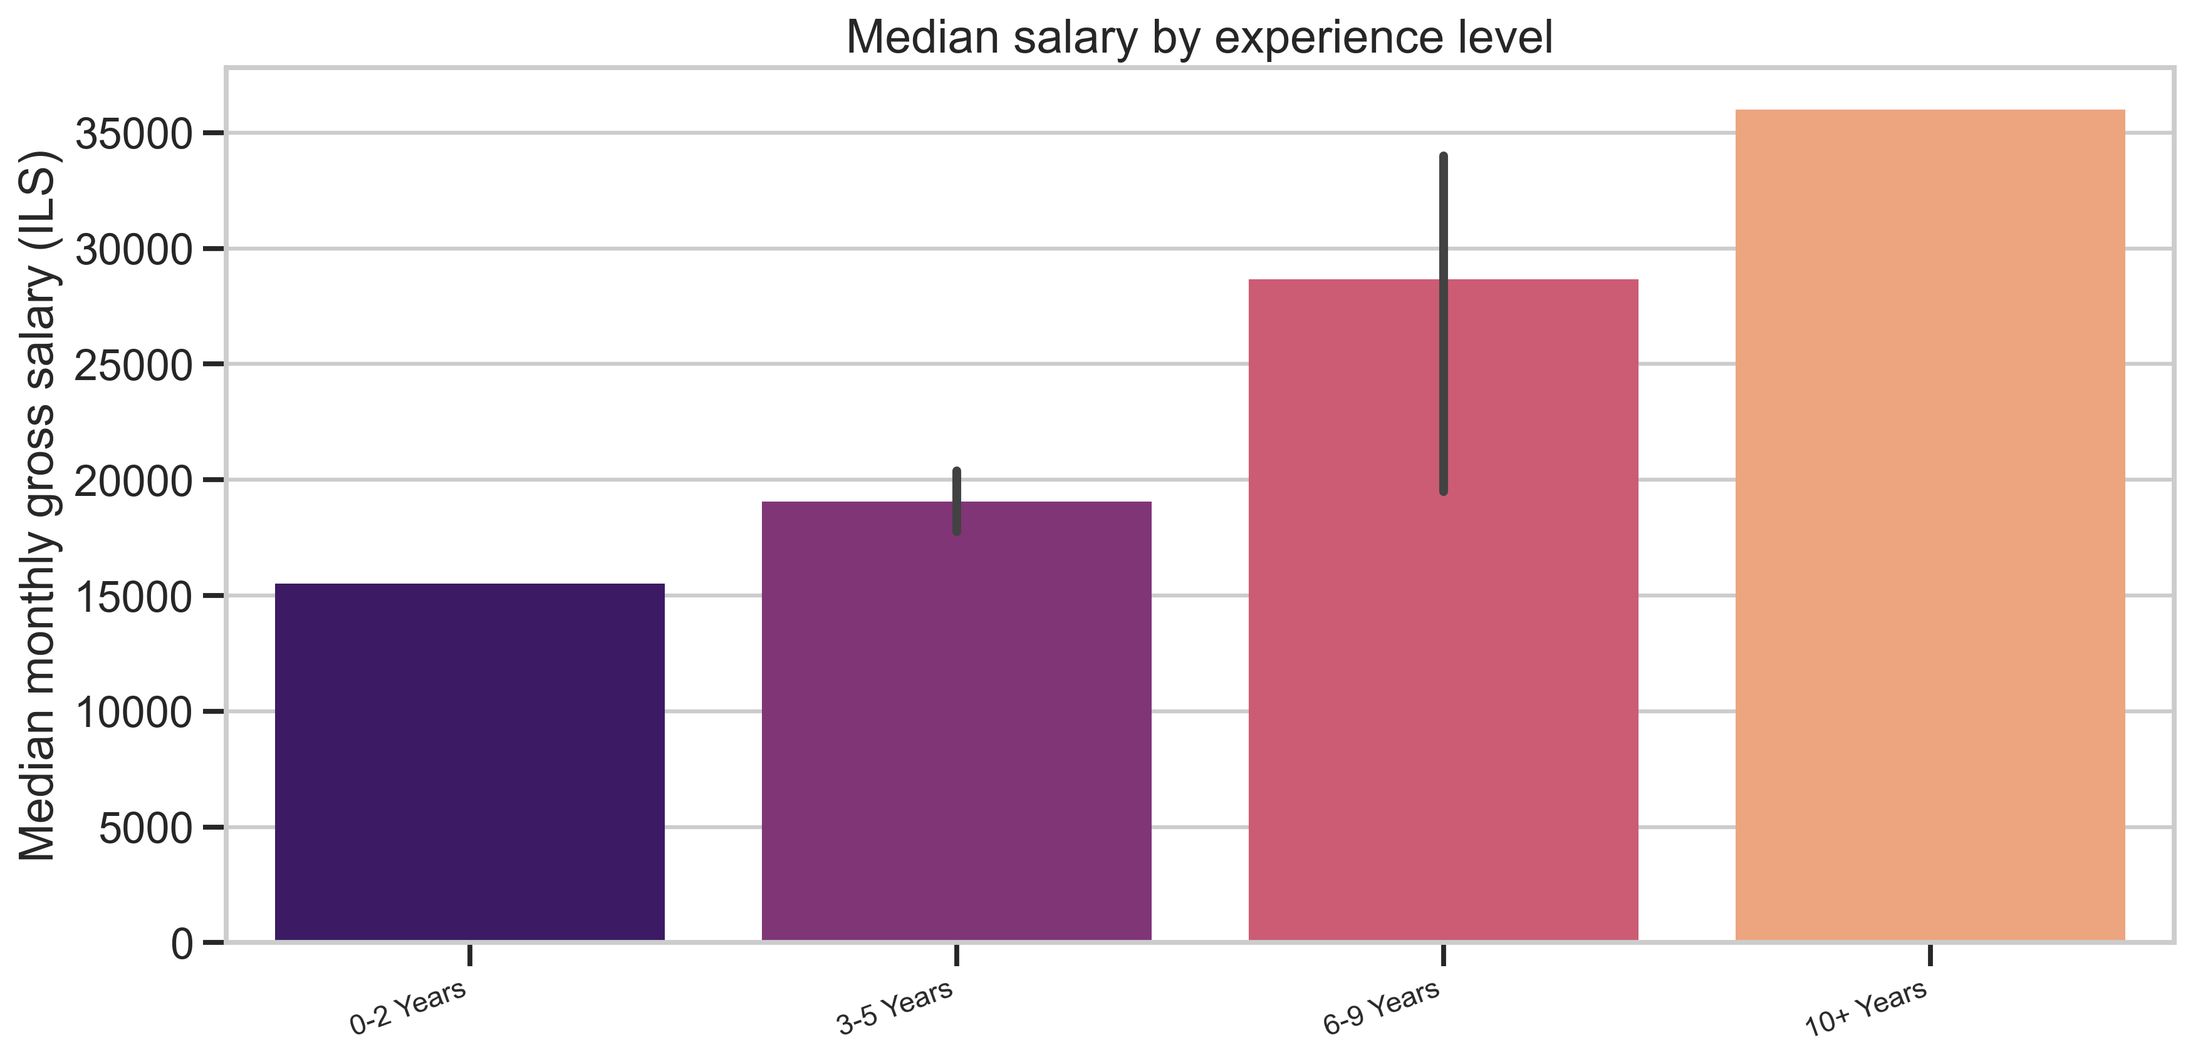
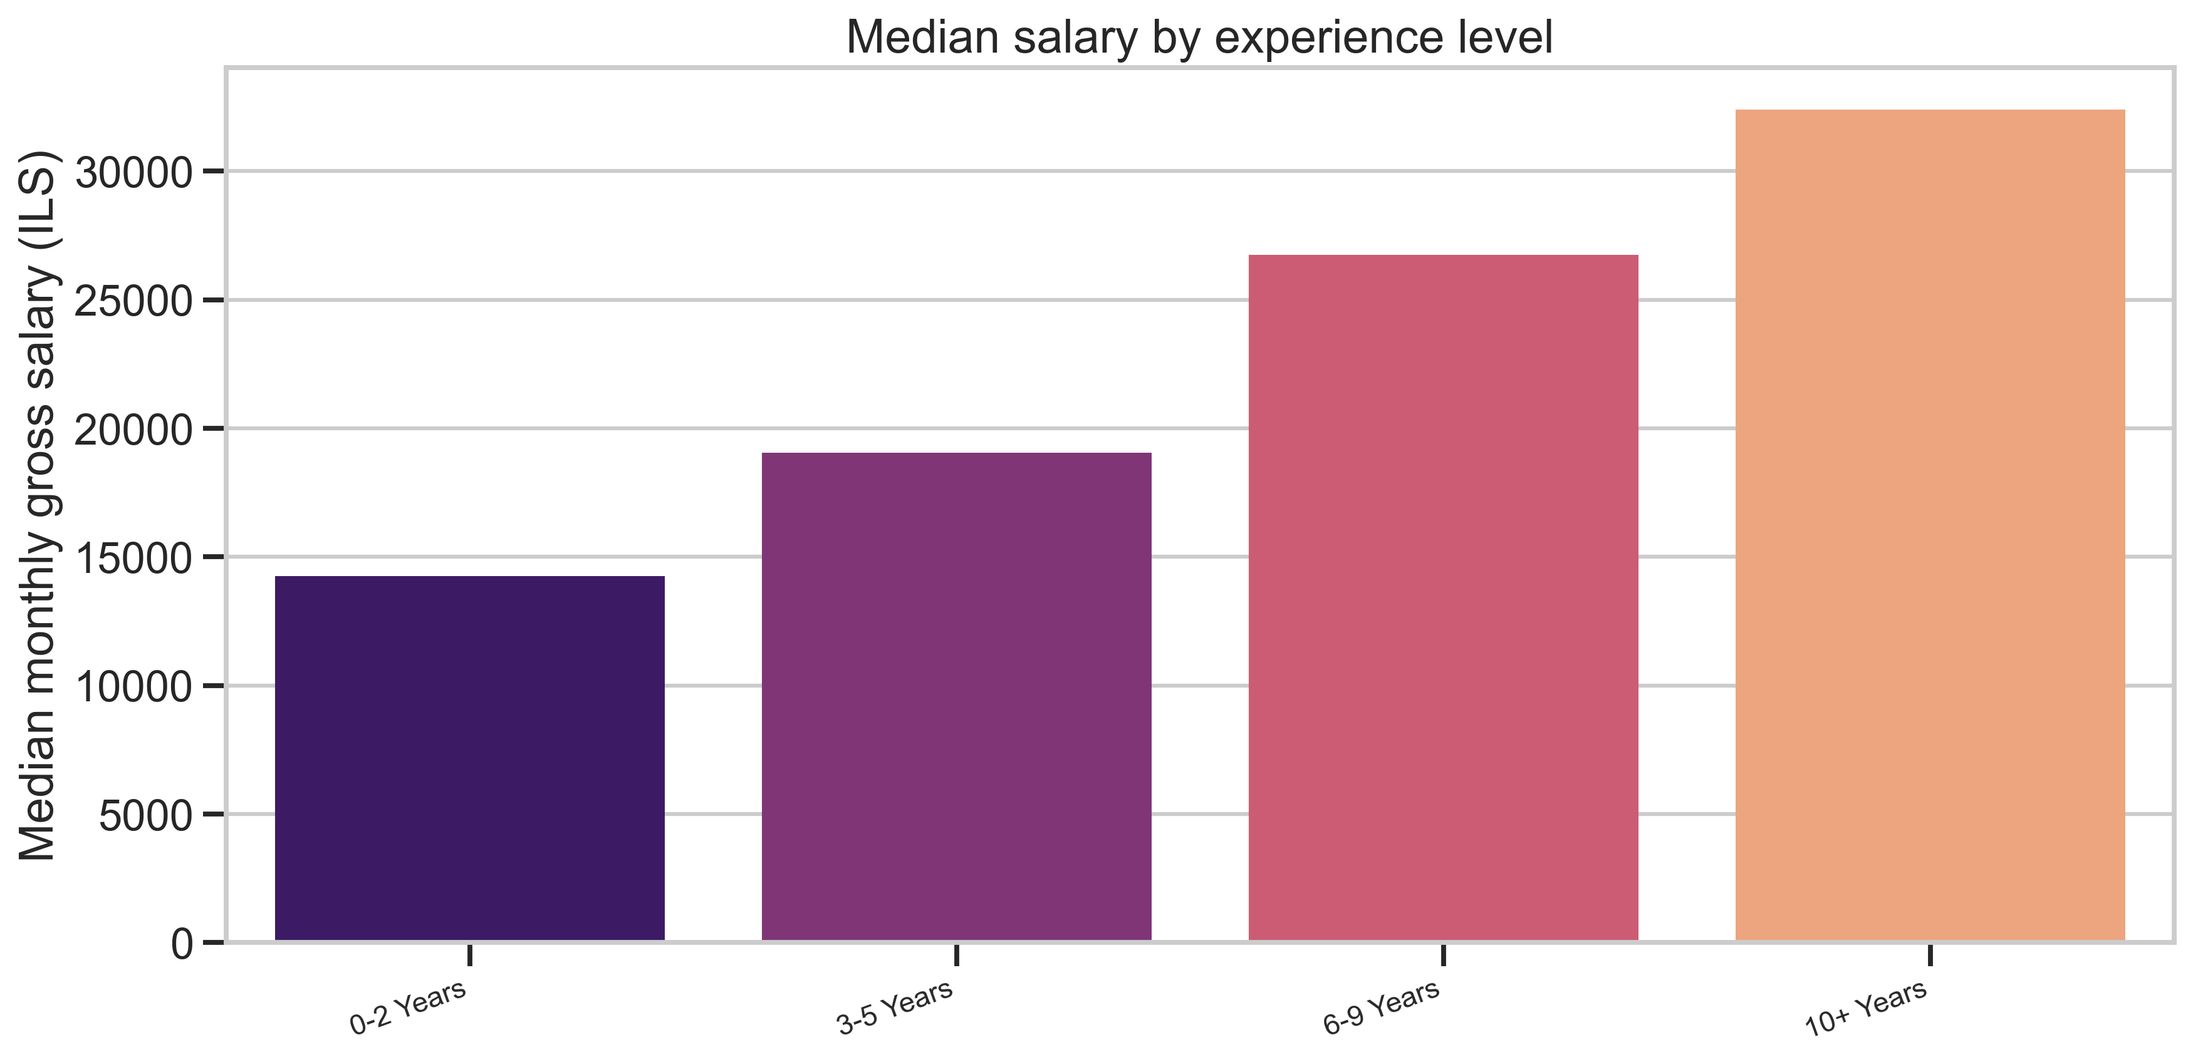
Add files via upload

diff --git a/Images/salarysurvey2026 images/salary_survey_2026_tables.md b/Images/salarysurvey2026 images/salary_survey_2026_tables.md
@@ -1,0 +1,242 @@
+# Data Operations IL Salary Survey 2026
+
+Summary tables generated from the cleaned global-salary cohort.
+
+## Salary Statistics
+
+|      |    Value |
+|:-----|---------:|
+| mean | 25313.6  |
+| std  |  9244.47 |
+| min  | 10500    |
+| 25%  | 19000    |
+| 50%  | 23000    |
+| 75%  | 30000    |
+| max  | 45000    |
+
+
+## Experience and Workplace
+
+| Experience   | Type of Workplace                     | Salary Range    | Median Value   | Comment        |
+|:-------------|:--------------------------------------|:----------------|:---------------|:---------------|
+| 0-2 Years    | Big Startup (More than 200 Employees) | 13,000 - 13,000 | 13,000         | <3 respondents |
+| 0-2 Years    | Enterprise/Corporate                  | 13,000 - 18,000 | 15,500         | <3 respondents |
+| 3-5 Years    | Big Startup (More than 200 Employees) | 12,100 - 28,000 | 18,000         |                |
+| 3-5 Years    | Enterprise/Corporate                  | 10,500 - 24,500 | 17,500         | <3 respondents |
+| 3-5 Years    | Medium Startup (41-200 Employees)     | 19,000 - 33,000 | 21,000         |                |
+| 3-5 Years    | Small Startup (up to 40 Employees)    | 16,500 - 23,000 | 19,750         | <3 respondents |
+| 6-9 Years    | Big Startup (More than 200 Employees) | 21,000 - 21,000 | 21,000         | <3 respondents |
+| 6-9 Years    | Enterprise/Corporate                  | 27,000 - 35,500 | 32,500         |                |
+| 6-9 Years    | Medium Startup (41-200 Employees)     | 17,000 - 22,000 | 19,500         | <3 respondents |
+| 6-9 Years    | Small Startup (up to 40 Employees)    | 28,000 - 40,000 | 34,000         | <3 respondents |
+| 10+ Years    | Big Startup (More than 200 Employees) | 40,000 - 40,000 | 40,000         | <3 respondents |
+| 10+ Years    | Enterprise/Corporate                  | 20,000 - 45,000 | 36,000         |                |
+| 10+ Years    | Government                            | 30,000 - 30,000 | 30,000         | <3 respondents |
+| 10+ Years    | Medium Startup (41-200 Employees)     | 34,000 - 34,000 | 34,000         | <3 respondents |
+| 10+ Years    | Small Startup (up to 40 Employees)    | 22,000 - 22,000 | 22,000         | <3 respondents |
+
+
+## Workplace
+
+| Type of Workplace                     | Salary Range    | Median Value   | Comment   |
+|:--------------------------------------|:----------------|:---------------|:----------|
+| Government                            | 30,000 - 30,000 | 30,000         |           |
+| Enterprise/Corporate                  | 10,500 - 45,000 | 27,000         |           |
+| Small Startup (up to 40 Employees)    | 16,500 - 40,000 | 23,000         |           |
+| Medium Startup (41-200 Employees)     | 17,000 - 34,000 | 21,000         |           |
+| Big Startup (More than 200 Employees) | 12,100 - 40,000 | 19,500         |           |
+
+
+## Special Knowledge by Experience
+
+| Experience   | Salary Range    | Median Value   | Comment        |
+|:-------------|:----------------|:---------------|:---------------|
+| 10+ Years    | 30,000 - 45,000 | 34,000         |                |
+| 3-5 Years    | 21,000 - 21,000 | 21,000         | <3 respondents |
+| 6-9 Years    | 21,000 - 21,000 | 21,000         | <3 respondents |
+
+
+## Special Knowledge by Workplace
+
+| Type of Workplace                     | Salary Range    | Median Value   | Comment        |
+|:--------------------------------------|:----------------|:---------------|:---------------|
+| Big Startup (More than 200 Employees) | 21,000 - 21,000 | 21,000         | <3 respondents |
+| Enterprise/Corporate                  | 45,000 - 45,000 | 45,000         | <3 respondents |
+| Government                            | 30,000 - 30,000 | 30,000         | <3 respondents |
+| Medium Startup (41-200 Employees)     | 21,000 - 34,000 | 21,000         |                |
+
+
+## Technical Work by Experience and Workplace
+
+| Experience   | Type of Workplace                     | Salary Range    | Median Value   | Comment        |
+|:-------------|:--------------------------------------|:----------------|:---------------|:---------------|
+| 0-2 Years    | Enterprise/Corporate                  | 13,000 - 13,000 | 13,000         | <3 respondents |
+| 10+ Years    | Big Startup (More than 200 Employees) | 40,000 - 40,000 | 40,000         | <3 respondents |
+| 10+ Years    | Enterprise/Corporate                  | 45,000 - 45,000 | 45,000         | <3 respondents |
+| 10+ Years    | Government                            | 30,000 - 30,000 | 30,000         | <3 respondents |
+| 10+ Years    | Medium Startup (41-200 Employees)     | 34,000 - 34,000 | 34,000         | <3 respondents |
+| 10+ Years    | Small Startup (up to 40 Employees)    | 22,000 - 22,000 | 22,000         | <3 respondents |
+| 3-5 Years    | Big Startup (More than 200 Employees) | 12,100 - 28,000 | 18,000         |                |
+| 3-5 Years    | Enterprise/Corporate                  | 10,500 - 10,500 | 10,500         | <3 respondents |
+| 3-5 Years    | Medium Startup (41-200 Employees)     | 21,000 - 21,000 | 21,000         | <3 respondents |
+| 3-5 Years    | Small Startup (up to 40 Employees)    | 16,500 - 23,000 | 19,750         | <3 respondents |
+| 6-9 Years    | Big Startup (More than 200 Employees) | 21,000 - 21,000 | 21,000         | <3 respondents |
+| 6-9 Years    | Enterprise/Corporate                  | 27,000 - 35,000 | 30,000         |                |
+| 6-9 Years    | Medium Startup (41-200 Employees)     | 17,000 - 22,000 | 19,500         | <3 respondents |
+| 6-9 Years    | Small Startup (up to 40 Employees)    | 28,000 - 40,000 | 34,000         | <3 respondents |
+
+
+## Manager by Experience and Workplace
+
+| Experience   | Type of Workplace                     | Salary Range    | Median Value   | Comment        |
+|:-------------|:--------------------------------------|:----------------|:---------------|:---------------|
+| 10+ Years    | Enterprise/Corporate                  | 45,000 - 45,000 | 45,000         | <3 respondents |
+| 10+ Years    | Government                            | 30,000 - 30,000 | 30,000         | <3 respondents |
+| 10+ Years    | Medium Startup (41-200 Employees)     | 34,000 - 34,000 | 34,000         | <3 respondents |
+| 10+ Years    | Small Startup (up to 40 Employees)    | 22,000 - 22,000 | 22,000         | <3 respondents |
+| 3-5 Years    | Big Startup (More than 200 Employees) | 18,000 - 28,000 | 23,000         | <3 respondents |
+| 3-5 Years    | Enterprise/Corporate                  | 24,500 - 24,500 | 24,500         | <3 respondents |
+| 3-5 Years    | Medium Startup (41-200 Employees)     | 19,000 - 33,000 | 21,000         |                |
+| 6-9 Years    | Big Startup (More than 200 Employees) | 21,000 - 21,000 | 21,000         | <3 respondents |
+| 6-9 Years    | Enterprise/Corporate                  | 35,000 - 35,500 | 35,250         | <3 respondents |
+| 6-9 Years    | Medium Startup (41-200 Employees)     | 22,000 - 22,000 | 22,000         | <3 respondents |
+| 6-9 Years    | Small Startup (up to 40 Employees)    | 40,000 - 40,000 | 40,000         | <3 respondents |
+
+
+## Manager by Team Size and Workplace
+
+| Team Size               | Type of Workplace                     | Salary Range    | Median Value   | Comment        |
+|:------------------------|:--------------------------------------|:----------------|:---------------|:---------------|
+| Between 6 and 12 people | Big Startup (More than 200 Employees) | 21,000 - 21,000 | 21,000         | <3 respondents |
+| Between 6 and 12 people | Enterprise/Corporate                  | 24,500 - 45,000 | 34,750         | <3 respondents |
+| Between 6 and 12 people | Medium Startup (41-200 Employees)     | 21,000 - 33,000 | 21,000         |                |
+| Over 12 people          | Government                            | 30,000 - 30,000 | 30,000         | <3 respondents |
+| Up to 5 people          | Big Startup (More than 200 Employees) | 18,000 - 28,000 | 23,000         | <3 respondents |
+| Up to 5 people          | Enterprise/Corporate                  | 35,000 - 35,500 | 35,250         | <3 respondents |
+| Up to 5 people          | Medium Startup (41-200 Employees)     | 19,000 - 34,000 | 22,000         |                |
+| Up to 5 people          | Small Startup (up to 40 Employees)    | 22,000 - 40,000 | 31,000         | <3 respondents |
+
+
+## Manager by Experience and Team Size
+
+| Experience   | Team Size               | Salary Range    | Median Value   | Comment        |
+|:-------------|:------------------------|:----------------|:---------------|:---------------|
+| 10+ Years    | Between 6 and 12 people | 45,000 - 45,000 | 45,000         | <3 respondents |
+| 10+ Years    | Over 12 people          | 30,000 - 30,000 | 30,000         | <3 respondents |
+| 10+ Years    | Up to 5 people          | 22,000 - 34,000 | 28,000         | <3 respondents |
+| 3-5 Years    | Between 6 and 12 people | 21,000 - 33,000 | 22,750         |                |
+| 3-5 Years    | Up to 5 people          | 18,000 - 28,000 | 20,000         |                |
+| 6-9 Years    | Between 6 and 12 people | 21,000 - 21,000 | 21,000         | <3 respondents |
+| 6-9 Years    | Up to 5 people          | 22,000 - 40,000 | 35,250         |                |
+
+
+## Hands-on Data Work by Experience
+
+| How much of your day-to-day work includes being hands-on with data?   | Experience   | Salary Range    | Median Value   | Comment        |
+|:----------------------------------------------------------------------|:-------------|:----------------|:---------------|:---------------|
+| Less than 20% of my work is hands-on                                  | 3-5 Years    | 19,000 - 28,000 | 21,000         |                |
+| Less than 20% of my work is hands-on                                  | 6-9 Years    | 21,000 - 40,000 | 28,750         |                |
+| Less than 20% of my work is hands-on                                  | 10+ Years    | 30,000 - 34,000 | 32,000         | <3 respondents |
+| Most/all of my work is hands-on                                       | 0-2 Years    | 13,000 - 18,000 | 15,500         | <3 respondents |
+| Most/all of my work is hands-on                                       | 3-5 Years    | 10,500 - 23,000 | 16,500         |                |
+| Most/all of my work is hands-on                                       | 6-9 Years    | 17,000 - 30,000 | 27,000         |                |
+| Most/all of my work is hands-on                                       | 10+ Years    | 20,000 - 40,000 | 30,000         | <3 respondents |
+| ~50% of my work in hands-on                                           | 0-2 Years    | 13,000 - 13,000 | 13,000         | <3 respondents |
+| ~50% of my work in hands-on                                           | 3-5 Years    | 18,000 - 20,000 | 19,000         | <3 respondents |
+| ~50% of my work in hands-on                                           | 6-9 Years    | 28,000 - 35,000 | 31,500         | <3 respondents |
+| ~50% of my work in hands-on                                           | 10+ Years    | 22,000 - 45,000 | 27,000         |                |
+
+
+## Hands-on Data Work by Workplace
+
+| How much of your day-to-day work includes being hands-on with data?   | Type of Workplace                     | Salary Range    | Median Value   | Comment        |
+|:----------------------------------------------------------------------|:--------------------------------------|:----------------|:---------------|:---------------|
+| Less than 20% of my work is hands-on                                  | Big Startup (More than 200 Employees) | 21,000 - 28,000 | 24,500         | <3 respondents |
+| Less than 20% of my work is hands-on                                  | Enterprise/Corporate                  | 35,500 - 35,500 | 35,500         | <3 respondents |
+| Less than 20% of my work is hands-on                                  | Government                            | 30,000 - 30,000 | 30,000         | <3 respondents |
+| Less than 20% of my work is hands-on                                  | Medium Startup (41-200 Employees)     | 19,000 - 34,000 | 21,500         |                |
+| Less than 20% of my work is hands-on                                  | Small Startup (up to 40 Employees)    | 40,000 - 40,000 | 40,000         | <3 respondents |
+| Most/all of my work is hands-on                                       | Big Startup (More than 200 Employees) | 12,100 - 40,000 | 13,000         |                |
+| Most/all of my work is hands-on                                       | Enterprise/Corporate                  | 10,500 - 30,000 | 20,000         |                |
+| Most/all of my work is hands-on                                       | Medium Startup (41-200 Employees)     | 17,000 - 21,000 | 19,000         | <3 respondents |
+| Most/all of my work is hands-on                                       | Small Startup (up to 40 Employees)    | 16,500 - 23,000 | 19,750         | <3 respondents |
+| ~50% of my work in hands-on                                           | Big Startup (More than 200 Employees) | 18,000 - 18,000 | 18,000         | <3 respondents |
+| ~50% of my work in hands-on                                           | Enterprise/Corporate                  | 13,000 - 45,000 | 31,000         |                |
+| ~50% of my work in hands-on                                           | Medium Startup (41-200 Employees)     | 20,000 - 20,000 | 20,000         | <3 respondents |
+| ~50% of my work in hands-on                                           | Small Startup (up to 40 Employees)    | 22,000 - 28,000 | 25,000         | <3 respondents |
+
+
+## Data Operations by Experience
+
+| What percentage of your work is data operations?   | Experience   | Salary Range    | Median Value   | Comment        |
+|:---------------------------------------------------|:-------------|:----------------|:---------------|:---------------|
+| Less than 20% of my work is data operations        | 10+ Years    | 45,000 - 45,000 | 45,000         | <3 respondents |
+| Most/all of my work is data operations             | 0-2 Years    | 13,000 - 18,000 | 15,500         | <3 respondents |
+| Most/all of my work is data operations             | 10+ Years    | 20,000 - 40,000 | 27,000         |                |
+| Most/all of my work is data operations             | 3-5 Years    | 10,500 - 23,000 | 14,300         |                |
+| Most/all of my work is data operations             | 6-9 Years    | 17,000 - 30,000 | 28,000         |                |
+| ~50% of my work is data operations                 | 0-2 Years    | 13,000 - 13,000 | 13,000         | <3 respondents |
+| ~50% of my work is data operations                 | 6-9 Years    | 27,000 - 27,000 | 27,000         | <3 respondents |
+
+
+## Data Operations by Workplace
+
+| What percentage of your work is data operations?   | Type of Workplace                     | Salary Range    | Median Value   | Comment        |
+|:---------------------------------------------------|:--------------------------------------|:----------------|:---------------|:---------------|
+| Less than 20% of my work is data operations        | Enterprise/Corporate                  | 45,000 - 45,000 | 45,000         | <3 respondents |
+| Most/all of my work is data operations             | Big Startup (More than 200 Employees) | 12,100 - 40,000 | 13,000         |                |
+| Most/all of my work is data operations             | Enterprise/Corporate                  | 10,500 - 30,000 | 20,000         |                |
+| Most/all of my work is data operations             | Medium Startup (41-200 Employees)     | 17,000 - 17,000 | 17,000         | <3 respondents |
+| Most/all of my work is data operations             | Small Startup (up to 40 Employees)    | 16,500 - 28,000 | 23,000         |                |
+| ~50% of my work is data operations                 | Enterprise/Corporate                  | 13,000 - 27,000 | 20,000         | <3 respondents |
+
+
+## Role Summary
+
+| Role Level                   | Salary Range    | Median Value   | Comment   |
+|:-----------------------------|:----------------|:---------------|:----------|
+| Strategic                    | 26,250 - 45,000 | 33,000         |           |
+| Tactical                     | 30,000 - 30,000 | 30,000         |           |
+| Tactical+Strategic           | 13,000 - 45,000 | 27,000         |           |
+| Practical+Tactical+Strategic | 17,000 - 22,000 | 20,500         |           |
+| Practical+Tactical           | 10,500 - 27,000 | 14,750         |           |
+
+
+## Role Level by Experience
+
+| Role Level                   | Experience   | Salary Range    | Median Value   | Comment        |
+|:-----------------------------|:-------------|:----------------|:---------------|:---------------|
+| Practical+Tactical           | 0-2 Years    | 13,000 - 18,000 | 15,500         | <3 respondents |
+| Practical+Tactical           | 3-5 Years    | 10,500 - 16,500 | 12,100         |                |
+| Practical+Tactical           | 6-9 Years    | 27,000 - 27,000 | 27,000         | <3 respondents |
+| Practical+Tactical+Strategic | 10+ Years    | 22,000 - 22,000 | 22,000         | <3 respondents |
+| Practical+Tactical+Strategic | 3-5 Years    | 20,000 - 20,000 | 20,000         | <3 respondents |
+| Practical+Tactical+Strategic | 6-9 Years    | 17,000 - 21,000 | 19,000         | <3 respondents |
+| Strategic                    | 10+ Years    | 45,000 - 45,000 | 45,000         | <3 respondents |
+| Strategic                    | 3-5 Years    | 26,250 - 33,000 | 29,625         | <3 respondents |
+| Tactical                     | 6-9 Years    | 30,000 - 30,000 | 30,000         | <3 respondents |
+| Tactical+Strategic           | 0-2 Years    | 13,000 - 13,000 | 13,000         | <3 respondents |
+| Tactical+Strategic           | 10+ Years    | 20,000 - 45,000 | 32,000         |                |
+| Tactical+Strategic           | 3-5 Years    | 18,000 - 28,000 | 21,000         |                |
+| Tactical+Strategic           | 6-9 Years    | 22,000 - 40,000 | 35,000         |                |
+
+
+## Role Level by Workplace
+
+| Role Level                   | Type of Workplace                     | Salary Range    | Median Value   | Comment        |
+|:-----------------------------|:--------------------------------------|:----------------|:---------------|:---------------|
+| Practical+Tactical           | Big Startup (More than 200 Employees) | 12,100 - 12,100 | 12,100         | <3 respondents |
+| Practical+Tactical           | Enterprise/Corporate                  | 10,500 - 27,000 | 15,500         |                |
+| Practical+Tactical           | Small Startup (up to 40 Employees)    | 16,500 - 16,500 | 16,500         | <3 respondents |
+| Practical+Tactical+Strategic | Big Startup (More than 200 Employees) | 21,000 - 21,000 | 21,000         | <3 respondents |
+| Practical+Tactical+Strategic | Medium Startup (41-200 Employees)     | 17,000 - 20,000 | 18,500         | <3 respondents |
+| Practical+Tactical+Strategic | Small Startup (up to 40 Employees)    | 22,000 - 22,000 | 22,000         | <3 respondents |
+| Strategic                    | Enterprise/Corporate                  | 45,000 - 45,000 | 45,000         | <3 respondents |
+| Strategic                    | Medium Startup (41-200 Employees)     | 26,250 - 33,000 | 29,625         | <3 respondents |
+| Tactical                     | Enterprise/Corporate                  | 30,000 - 30,000 | 30,000         | <3 respondents |
+| Tactical+Strategic           | Big Startup (More than 200 Employees) | 13,000 - 40,000 | 23,000         |                |
+| Tactical+Strategic           | Enterprise/Corporate                  | 20,000 - 45,000 | 31,000         |                |
+| Tactical+Strategic           | Government                            | 30,000 - 30,000 | 30,000         | <3 respondents |
+| Tactical+Strategic           | Medium Startup (41-200 Employees)     | 19,000 - 34,000 | 21,000         |                |
+| Tactical+Strategic           | Small Startup (up to 40 Employees)    | 23,000 - 40,000 | 28,000         |                |
+
